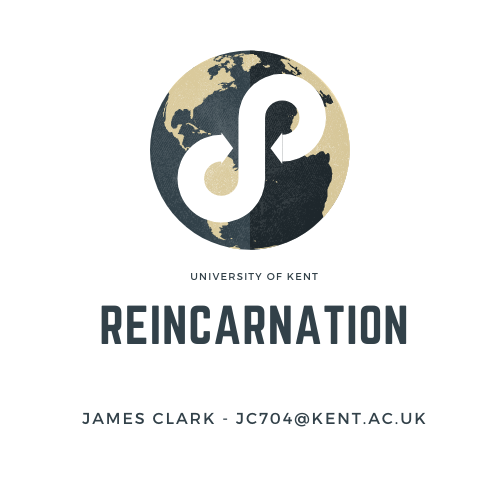
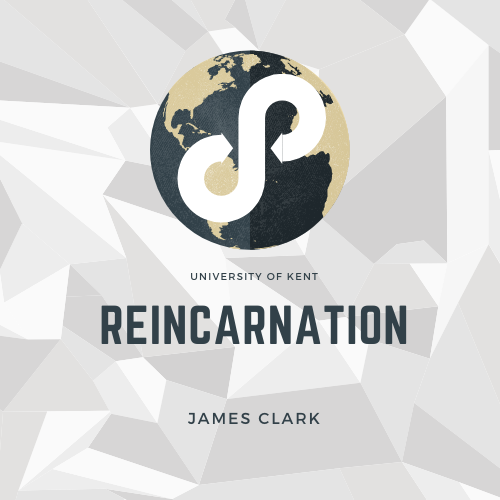
Updated Code: Added splashscreen.py Added markov.py (creates three sentences currently per year, using markov chains) Updated GUI Saves story to name.txt Custom name creation, appends the generated stories
TBA:
List of locations and names,
These are chosen at random upon story starting and become characters and locations for the character.

diff --git a/gui.py b/gui.py
@@ -1,63 +1,232 @@
+__author__ = "James Clark"
+__credits__ = ["James Clark"]
+__version__ = "1.0"
+
 # Import necessary libraries
+import os
+import signal
+import time
 import tkinter as tk
+from tkinter import messagebox
+
+from PIL import Image, ImageTk
+import markov
 
 
 def printToConsole():
     print("Print to Console")
 
+
+# Prompts the user to close the application, if 'quit; in menu bar is pressed
+def closeQuestion():
+    msgBox = tk.messagebox.askquestion('Reincarnation', 'Are you sure you want to exit the application?',
+                                       icon='warning')
+    if msgBox == 'yes':
+        os.kill(os.getpid(), signal.SIGINT)
+    else:
+        pass
+
+
+def exportStory():
+    with open("generated_stories/{}'s Story.txt".format(name), "w") as text_file:
+        text_file.write(story)
+
+
 class GUI(tk.Frame):
+    root = None
 
-    def __init__(self, parent):
-        tk.Frame.__init__(self, parent)
+    def __init__(self, parent, master=None, width=0.6, height=0.4, useFactor=True):
+        tk.Frame.__init__(self, master)
+
+        self.name_text = None
+        self.name_box = None
+        self.buttonFour = None
+        self.chosen_name = None
+
         self.parent = parent
-        self.initialize_user_interface()
+        # Window dimensions
+        CANVAS_HEIGHT = 600
+        CANVAS_WIDTH = 900
 
-    def initialize_user_interface(self):
-        # Create Menu Bar
+        # get screen width and height to center the window
+        ws = self.master.winfo_screenwidth()
+        hs = self.master.winfo_screenheight()
+        w = (useFactor and ws * width) or width
+        h = (useFactor and ws * height) or height
+        # calculate position x, y
+        x = (ws / 2) - (w / 2)
+        y = (hs / 2) - (h / 2)
+        self.master.geometry('%dx%d+%d+%d' % (w, h, x, y))
+
+        self.parent.iconbitmap('images/favicon.ico')
         self.parent.title("Reincarnation - AI Generated Stories")
-        self.parent.maxsize(900, 600)
-        self.parent.minsize(900, 600)
+        self.parent.maxsize(CANVAS_WIDTH, CANVAS_HEIGHT)
+        self.parent.minsize(CANVAS_WIDTH, CANVAS_HEIGHT)
+
+        # Menubar
         menuBar = tk.Menu(self.parent)
+
+        fileMenu = tk.Menu(menuBar, tearoff=0)
+        fileMenu.add_command(label="Save Story", command=exportStory)
+        fileMenu.add_command(label="Quit", command=closeQuestion)
+        menuBar.add_cascade(label="File", menu=fileMenu)
+
         helpMenu = tk.Menu(menuBar, tearoff=0)
         helpMenu.add_command(label="Help", command=printToConsole)
         helpMenu.add_command(label="Credits", command=printToConsole)
         menuBar.add_cascade(label="About", menu=helpMenu)
         self.parent.config(menu=menuBar)
 
-        # Creates Frame for Generated Text
-        self.textBox = tk.Frame(self.parent, width=500, height=400, bg="white")
-        self.textBox.place(x=190, y=100, relx=0, rely=0.01)
+        # Creates canvas, which is a child of root and sets the size of the window
+        canvas = tk.Canvas(self.root, height=CANVAS_HEIGHT, width=CANVAS_WIDTH, bg='#05345C')
+        canvas.pack()
 
+        # Background
+        self.background_image = Image.open('images/bg.png')
+        self.background_imageCopy = self.background_image.copy()
+        self.photo = ImageTk.PhotoImage(self.background_image)
+        self.background_label = tk.Label(canvas, image=self.photo)
+        self.background_label.place(relx=0, rely=0, relwidth=1, relheight=1)
+
+        # Title
         # Creates Frame for Header
-        self.header = tk.Frame(self.parent, width=900, height=100, bg="green")
+        self.header = tk.Frame(self.parent, width=900, height=100, bg="#e4e4e4")
         self.header.place(x=0, y=0, relx=0, rely=0)
 
-        self.labelYear = tk.Label(self.textBox, text="Year X", font=20, width=30, height=2)
-        self.labelYear.place(x=110, y=10, relx=0, rely=0)
+        # Title Frame that uses an image
+        self.titleImage = Image.open('images/title.png')
+        self.titleImageCopy = self.titleImage.copy()
+        self.photo_2 = ImageTk.PhotoImage(self.titleImage)
+        self.title = tk.Label(self.header, image=self.photo_2, bg='#e4e4e4')
+        self.title.place(relx=0, rely=0, relwidth=1, relheight=1)
 
-        story = """abcdefghijklmnopsssssssssssssqrstuvwxyzssssssss"""
+        # Creates Frame for Generated Text
+        self.textBox = tk.Frame(self.parent, width=500, height=400, bg="white", borderwidth=1, relief="solid")
+        self.textBox.place(x=190, y=100, relx=0, rely=0)
 
-        self.labelStory = tk.Label(self.textBox, text=story, font=10, width=55)
-        self.labelStory.place(x=0, y=100, relx=0, rely=0)
+        # Label for year n
+        self.labelYear = tk.Label(self.textBox, text="Press START to begin", font=("Helvetica", 22), width=20,
+                                  bg="white")
+        self.labelYear.place(x=80, y=10, relx=0, rely=0)
 
+        # Label to place generated text
+        self.labelStory = tk.Label(self.textBox, text=current_string, font=10, width=54, bg="white")
+        self.labelStory.place(x=3, y=100, relx=0, rely=0)
 
-
-        # Creates Frame for Lower Buttons
-        self.lowerThirdFrame = tk.Frame(self.parent, width=900, height=100, )
+        # Creates Frame for 1/3 of screen
+        self.lowerThirdFrame = tk.Frame(self.parent, width=900, height=100)
         self.lowerThirdFrame.place(x=0, y=500, relx=0, rely=0)
 
-        self.buttonBar = tk.Frame(self.lowerThirdFrame, width=900, height=100, bg="red")
-        self.buttonBar.place(x=0, y=0, relx=0, rely=0.05)
+        #  Creates frame for buttons
+        self.buttonBar = tk.Frame(self.lowerThirdFrame, width=900, height=100, bg="#dccda2")
+        self.buttonBar.place(x=0, y=0, relx=0, rely=0)
 
-        self.buttonOne = tk.Button(self.buttonBar, height=2, width=25, text="Start", command=printToConsole)
-        self.buttonOne.place(in_=self.buttonBar, x=10, y=28, relx=0, rely=0)
-        self.buttonTwo = tk.Button(self.buttonBar, height=2, width=25, text="Advance Year", command=printToConsole)
-        self.buttonTwo.place(in_=self.buttonBar, x=350, y=28, relx=0, rely=0)
-        self.buttonThree = tk.Button(self.buttonBar, height=2, width=25, text="Reset", command=printToConsole)
-        self.buttonThree.place(in_=self.buttonBar, x=705, y=28, relx=0, rely=0)
+        # Generates buttons
+        self.buttonOne = tk.Button(self.buttonBar, width=10, height=2, text="Start", font=("Helvetica", 16),
+                                   command=self.startStory)
+        self.buttonOne.place(in_=self.buttonBar, x=60, y=14, relx=0, rely=0)
+        self.buttonTwo = tk.Button(self.buttonBar, width=15, height=2, text="Advance Year", font=("Helvetica", 16),
+                                   command=self.updateStory)
+        self.buttonTwo.place(in_=self.buttonBar, x=350, y=14, relx=0, rely=0)
+        self.buttonThree = tk.Button(self.buttonBar, width=10, height=2, text="Reset", font=("Helvetica", 16),
+                                     command=printToConsole)
+        self.buttonThree.place(in_=self.buttonBar, x=705, y=14, relx=0, rely=0)
+
+        # Updates the text label with the current story string
+
+    def startStory(self):
+        global story
+        global year
+        global start_story
+        global current_string
+        global name
+        global nameChosen
+
+        # If story had already started prompt with an error message
+        if start_story:
+            messagebox.showerror("Reincarnation", "Error: Story in progress\n\nPress Reset to start again.\n")
+
+        # If story hasn't started, ask for a name variable.
+        if not start_story:
+
+            if not nameChosen:
+                print("test")
+                self.labelYear.config(text='')
+                text = "Enter your character's name"
+                self.name_text = tk.Label(self.parent, text=text, font=("Helvetica", 16),
+                                          bg="white")
+                self.name_text.place(x=300, y=115, relx=0, rely=0)
+                self.name_box = tk.Entry(self.parent, width=20, font=("Helvetica", 16))
+                self.name_box.place(x=310, y=200, relx=0, rely=0)
+
+                print(name)
+
+                self.buttonFour = tk.Button(self.parent, width=10, height=2, text="Submit", font=("Helvetica", 16),
+                                            command=self.nameUpdate)
+                self.buttonFour.place(in_=self.parent, x=370, y=250, relx=0, rely=0)
+
+            # Once name has been chosen destroy the name label and begin the story.
+            if nameChosen:
+                self.name_text.destroy()
+                markov.startStory()
+                current_string += markov.current_string + "\n"
+                # Increments year by 1.
+                year = 1
+                current_year = "Year " + str(year)
+
+                # Appends the story
+                story += current_year + "\n\n" + current_string + "\n"
+
+                # Sets labels to the variables defined above.
+                self.labelStory.config(text=current_string)
+                self.labelYear.config(text=current_year)
+                # Start story set to true.
+                start_story = True
+
+    # If name has been submitted it runs this function that updates the name_text label and destroys several GUI items.
+    def nameUpdate(self):
+        global name
+        global nameChosen
+        name = self.name_box.get()
+        self.name_text.config(text="Character Name: " + name + "\n Press 'START' again to begin!")
+        nameChosen = True
+        self.buttonFour.destroy()
+        self.name_box.destroy()
+
+    # When user presses Advance Year, this function is run.
+    def updateStory(self):
+        global story
+        global year
+        global start_story
+        global current_string
+
+        # Sets the new labelStory to empty, to remove the previous year.
+        current_string = ''
+        self.labelStory.config(text='')
+
+        # If the story hasn't begun yet the user cannot advance the story.
+        if not start_story:
+            messagebox.showerror("Reincarnation", "Error: Press start to begin!")
+
+        # Starts the story and increments the year by one.
+        # Concatenates all of the text into 'story' to be used later.
+        else:
+            markov.startStory()
+            current_string += markov.current_string + "\n"
+            year += 1
+            current_year = "Year " + str(year)
+
+            story += current_year + "\n\n" + current_string + "\n"
+            print(story)
+
+            self.labelStory.config(text=current_string)
+            self.labelYear.config(text=current_year)
 
 
-if __name__ == '__main__':
-    root = tk.Tk()
-    run = GUI(root)
-    root.mainloop()
+# Declared global variables that need to be reset every time.
+story = ''
+current_string = ''
+year = 0
+start_story = False
+name = ''
+nameChosen = False

diff --git a/markov.py b/markov.py
@@ -1,0 +1,59 @@
+__author__ = "James Clark"
+__credits__ = ["James Clark"]
+__version__ = "1.0"
+
+# Import necessary libraries
+import markovify
+
+import gui
+
+current_string = ''
+story = ''
+current_year_story = ''
+duplicate = False
+
+
+def startStory():
+    global current_string
+    global current_year_story
+    global story
+    global duplicate
+
+    with open("texts/born.txt", encoding="utf8") as f:
+        born = f.read()
+
+    born_model = markovify.Text(born, state_size=2)
+    name = gui.name
+
+    current_year_story = ''
+
+    # Creates three sentences from markov chain
+    start_sentence_one = born_model.make_short_sentence(150, tries=100)
+    start_sentence_two = born_model.make_short_sentence(150, tries=100)
+    start_sentence_three = born_model.make_short_sentence(150, tries=100)
+
+    # Conditionals to make sure generated text is not duplicated in the year story.
+    if start_sentence_one == start_sentence_two or start_sentence_one == start_sentence_three:
+        duplicate = True
+        startStory()
+
+    elif start_sentence_two == start_sentence_one or start_sentence_two == start_sentence_three:
+        duplicate = True
+        startStory()
+
+    elif start_sentence_three == start_sentence_one or start_sentence_three == start_sentence_two:
+        duplicate = True
+        startStory()
+
+    else:
+        duplicate = False
+        # Current string concatenates the three sentences together
+        original_string = start_sentence_one + "\n" + start_sentence_two + "\n" + start_sentence_three
+        current_string = original_string.replace("Name", name)
+
+        # Story adds all current strings together
+        story += current_string + "\n"
+
+
+def updateStory():
+    print("test")

diff --git a/splashscreen.py b/splashscreen.py
@@ -1,0 +1,35 @@
+from tkinter import *
+
+
+class SplashScreen(Frame):
+    def __init__(self, master=None, width=0.6, height=0.4, useFactor=True):
+        Frame.__init__(self, master)
+        self.pack(side=TOP, fill=BOTH, expand=YES)
+
+        # get screen width and height
+        ws = self.master.winfo_screenwidth()
+        hs = self.master.winfo_screenheight()
+        w = (useFactor and ws * width) or width
+        h = (useFactor and ws * height) or height
+        # calculate position x, y
+        x = (ws / 2) - (w / 2)
+        y = (hs / 2) - (h / 2)
+        self.master.geometry('%dx%d+%d+%d' % (w, h, x, y))
+
+        self.master.overrideredirect(True)
+        self.lift()
+
+        root.after(3000, lambda: root.destroy())
+
+
+if __name__ == '__main__':
+    root = Tk()
+    sp = SplashScreen(root)
+    sp.config(bg="red")
+    root.wm_attributes("-transparentcolor", 'red')
+    logo = PhotoImage(file='images/REINCARNATION.png')
+
+    m = Label(sp, image=logo)
+    m.pack(side=TOP, expand=YES)
+    m.config(bg="red", justify=CENTER, font=("calibri", 29))
+    root.mainloop()

diff --git a/app.py b/app.py
@@ -1,5 +1,14 @@
+__author__ = "James Clark"
+__credits__ = ["James Clark"]
+__version__ = "1.0"
+
+# Import necessary libraries
 from gui import GUI
+import tkinter as tk
+
+#exec(open('splashscreen.py').read())
 
 print("[INFO] Application Starting")
-app = GUI.Tk()
-app.root.mainloop()
+root = tk.Tk()
+run = GUI(root)
+root.mainloop()
